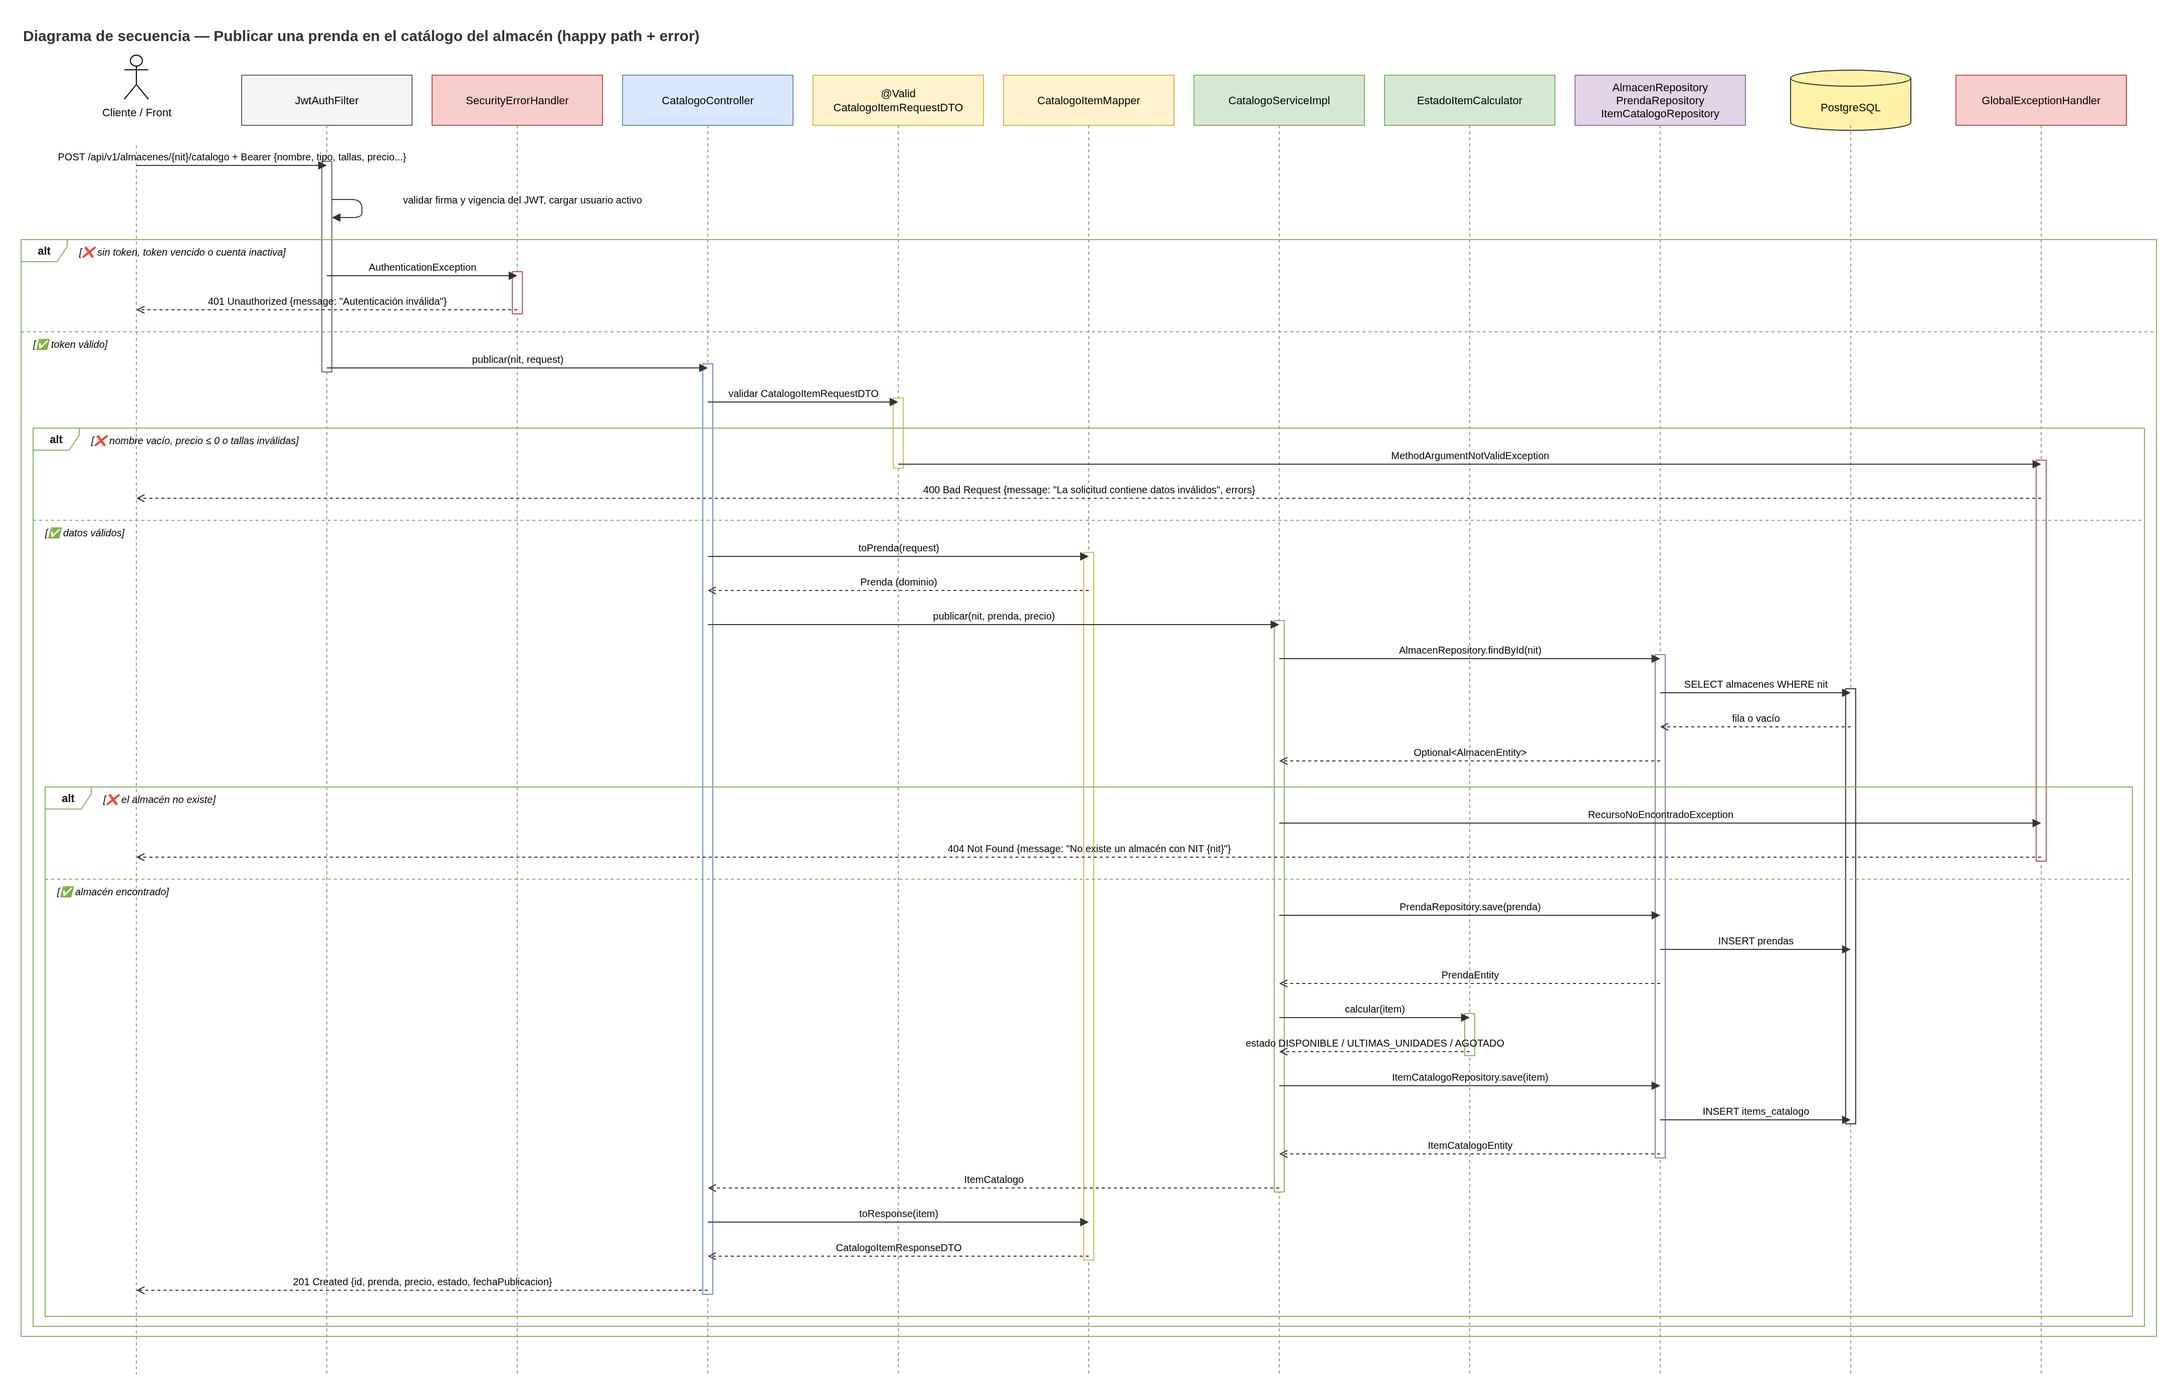
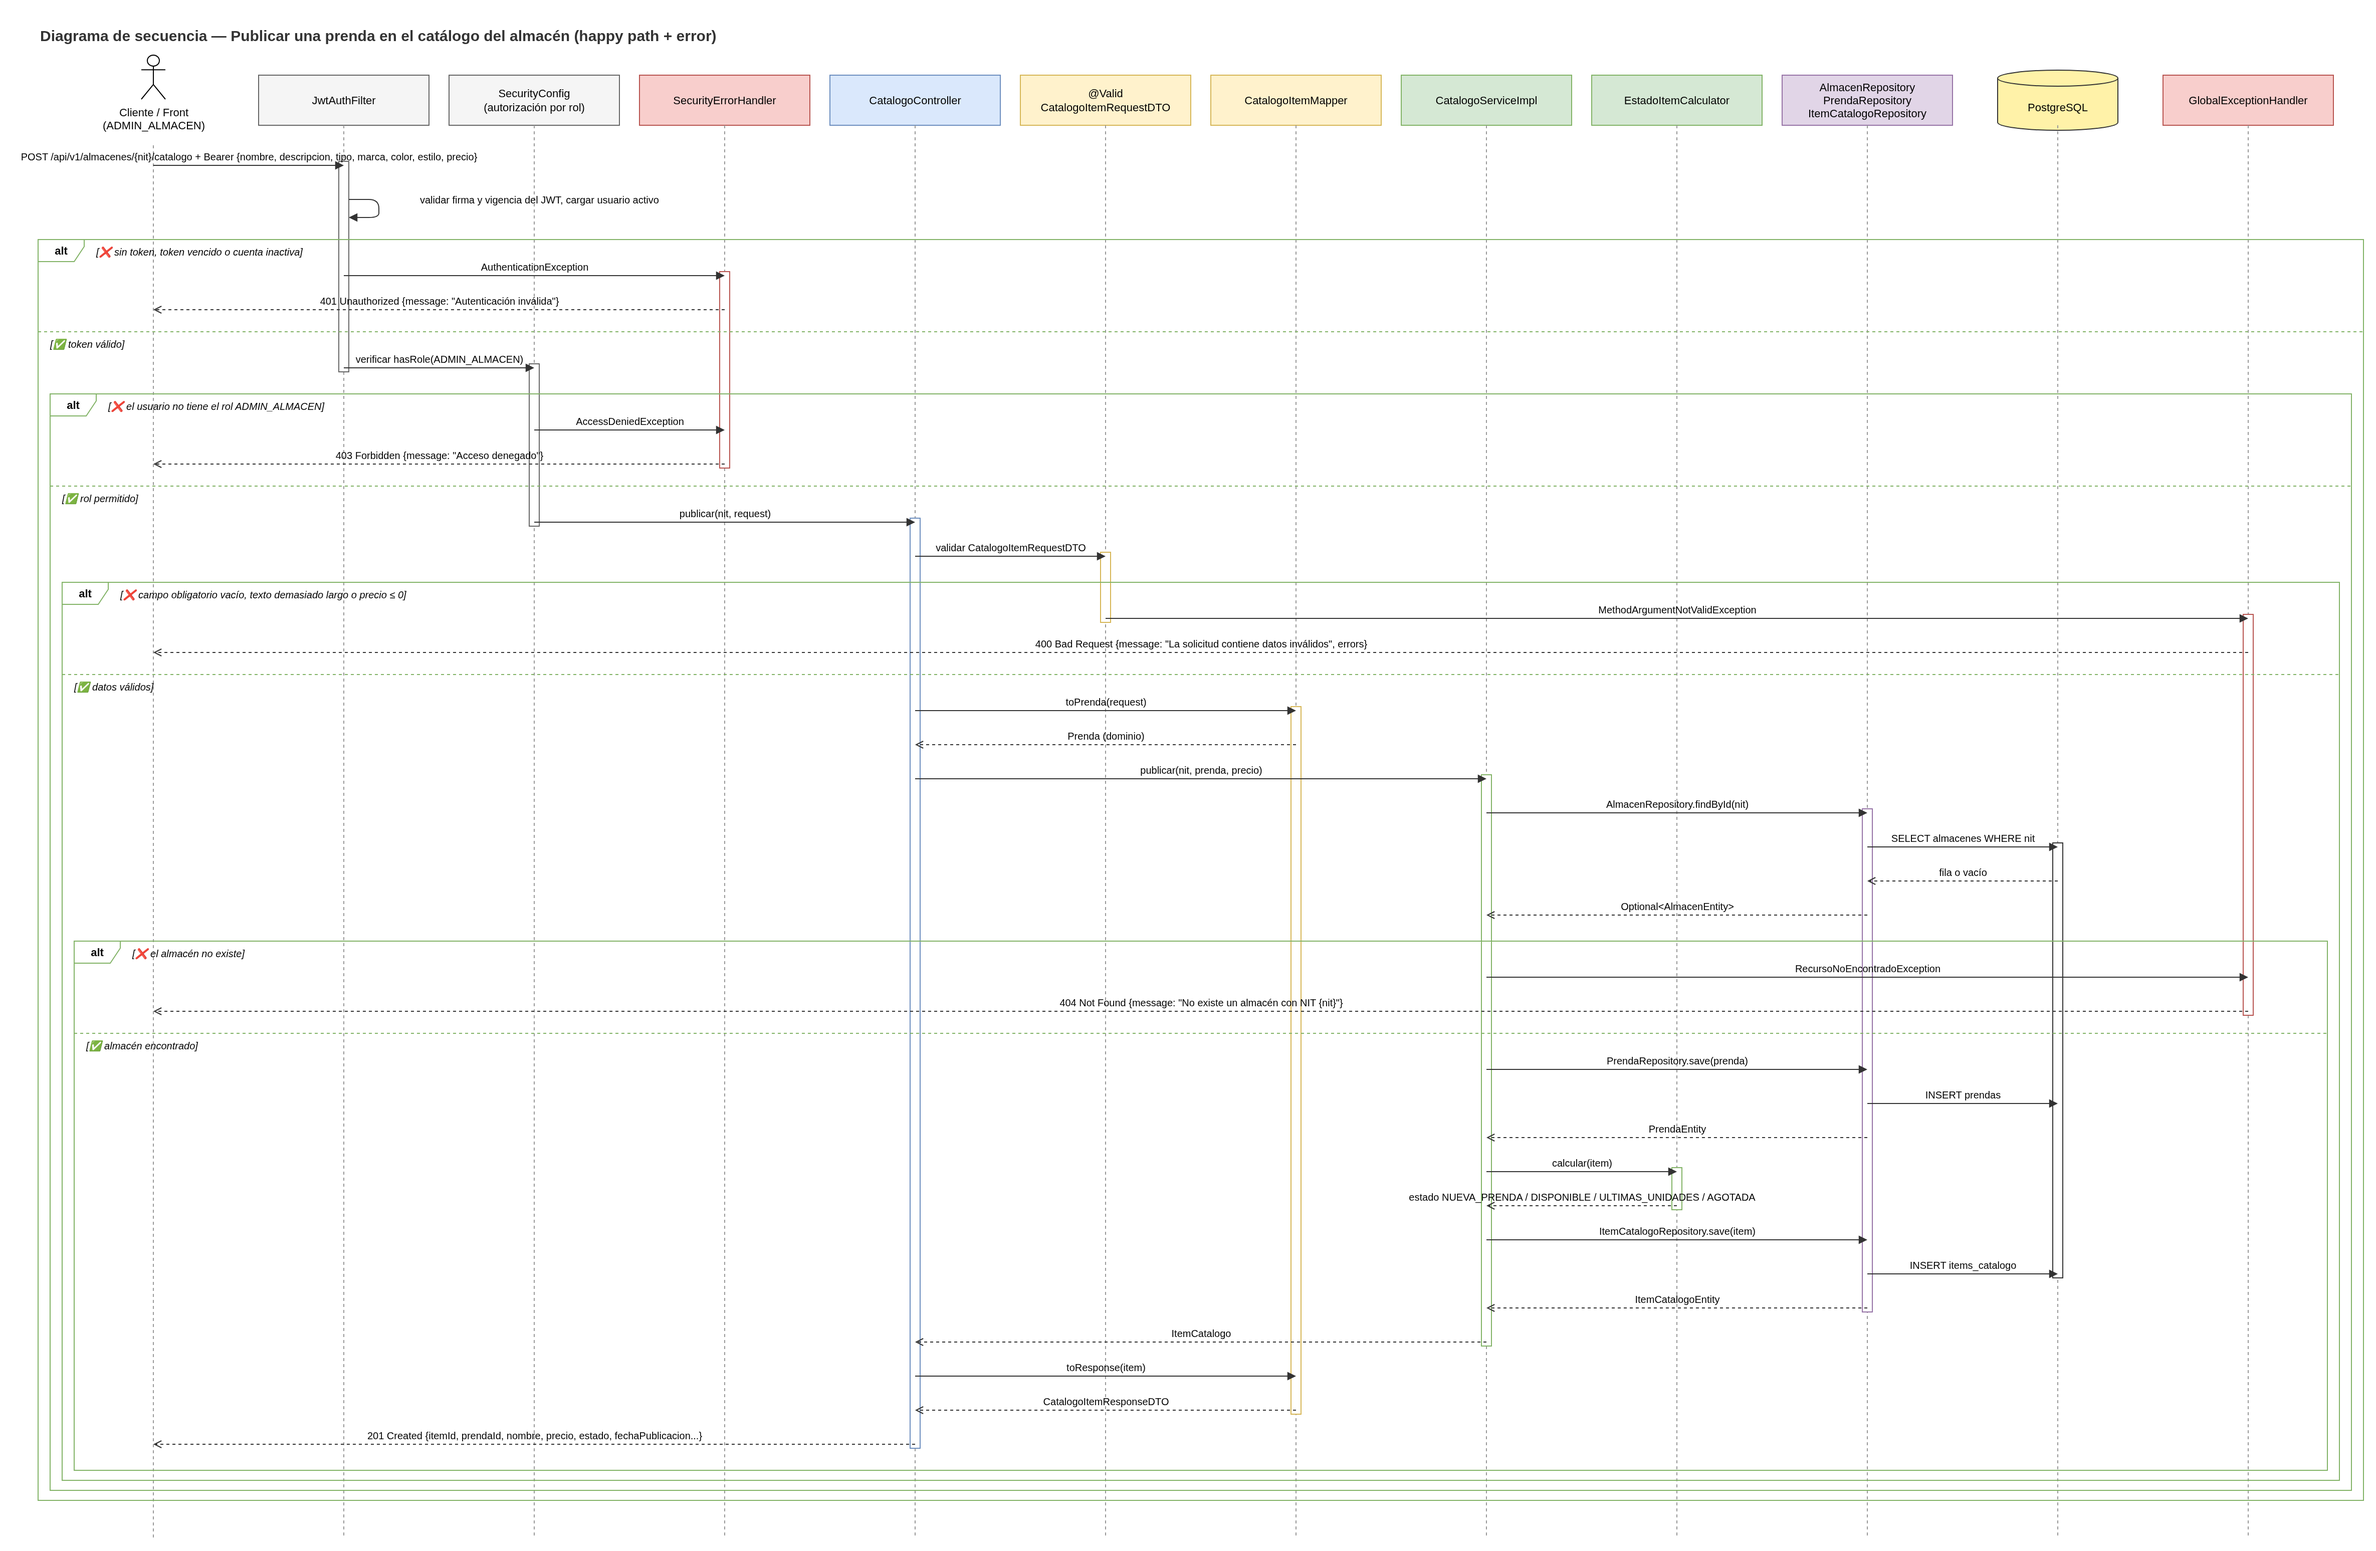
docs: update roles, known limitations and publish sequence for catalog authorization

diff --git a/style-radar/docs/arquitectura/funcionalidades-expuestas-parte-a.md b/style-radar/docs/arquitectura/funcionalidades-expuestas-parte-a.md
@@ -15,7 +15,6 @@ En las tablas de response, la columna *Restricciones* muestra los valores posibl
 Los roles posibles son:
 
 - **Público:** no requiere token.
-- **Autenticado (cualquier rol):** exige un JWT válido, sin importar el rol.
 - **Un rol específico:** el resto de endpoints exige el rol indicado. Sin token la respuesta es `401` y con otro rol es `403`.
 
 Las fechas usan el formato ISO-8601 en UTC y los precios están en pesos colombianos (COP).
@@ -42,8 +41,8 @@ Las fechas usan el formato ISO-8601 en UTC y los precios están en pesos colombi
 | PUT | `/api/v1/usuarios/me/preferencias-estilo` | COMPRADOR | 200 | RF-03 |
 | PUT | `/api/v1/usuarios/me/tallas-habituales` | COMPRADOR | 200 | RF-04 |
 | GET | `/api/v1/usuarios/{id}` | ADMIN_STYLERADAR | 200 | RF-66 |
-| GET | `/api/v1/usuarios/me/feed` | Autenticado (cualquier rol) | 200 | RF-05 |
-| GET | `/api/v1/usuarios/me/recomendaciones` | Autenticado (cualquier rol) | 200 | RF-06 |
+| GET | `/api/v1/usuarios/me/feed` | COMPRADOR | 200 | RF-05 |
+| GET | `/api/v1/usuarios/me/recomendaciones` | COMPRADOR | 200 | RF-06 |
 | GET | `/api/v1/catalogo/buscar` | Público (sin token) | 200 | RF-07 a RF-16, RF-54, RF-57 |
 | GET | `/api/v1/prendas` | Público (sin token) | 200 | RF-07 |
 | GET | `/api/v1/almacenes` | Público (sin token) | 200 | RF-17, RF-18 |
@@ -51,12 +50,12 @@ Las fechas usan el formato ISO-8601 en UTC y los precios están en pesos colombi
 | GET | `/api/v1/almacenes/{nit}/catalogo/novedades` | Público (sin token) | 200 | RF-20 |
 | GET | `/api/v1/almacenes/{nit}/distancia` | Público (sin token) | 200 | RF-21 |
 | GET | `/api/v1/almacenes/{nit}/catalogo` | Público (sin token) | 200 | RF-22, RF-60 |
-| POST | `/api/v1/almacenes/{nit}/catalogo` | Autenticado (cualquier rol) | 201 | RF-50, RF-53, RF-54 |
-| PUT | `/api/v1/almacenes/{nit}/catalogo/{itemId}` | Autenticado (cualquier rol) | 200 | RF-53, RF-55 |
-| DELETE | `/api/v1/almacenes/{nit}/catalogo/{itemId}` | Autenticado (cualquier rol) | 204 | RF-58 |
-| POST | `/api/v1/almacenes/{nit}/catalogo/{itemId}/imagenes` | Autenticado (cualquier rol) | 201 | RF-51 |
-| PUT | `/api/v1/almacenes/{nit}/catalogo/{itemId}/tallas` | Autenticado (cualquier rol) | 200 | RF-52 |
-| PATCH | `/api/v1/almacenes/{nit}/catalogo/{itemId}/inventario/{talla}` | Autenticado (cualquier rol) | 200 | RF-56, RF-57, RF-59 |
+| POST | `/api/v1/almacenes/{nit}/catalogo` | ADMIN_ALMACEN | 201 | RF-50, RF-53, RF-54 |
+| PUT | `/api/v1/almacenes/{nit}/catalogo/{itemId}` | ADMIN_ALMACEN | 200 | RF-53, RF-55 |
+| DELETE | `/api/v1/almacenes/{nit}/catalogo/{itemId}` | ADMIN_ALMACEN | 204 | RF-58 |
+| POST | `/api/v1/almacenes/{nit}/catalogo/{itemId}/imagenes` | ADMIN_ALMACEN | 201 | RF-51 |
+| PUT | `/api/v1/almacenes/{nit}/catalogo/{itemId}/tallas` | ADMIN_ALMACEN | 200 | RF-52 |
+| PATCH | `/api/v1/almacenes/{nit}/catalogo/{itemId}/inventario/{talla}` | ADMIN_ALMACEN | 200 | RF-56, RF-57, RF-59 |
 | GET | `/api/v1/admin/catalogo/moderacion` | ADMIN_STYLERADAR | 200 | RF-61 |
 | PATCH | `/api/v1/admin/catalogo/{itemId}/moderacion` | ADMIN_STYLERADAR | 200 | RF-61 |
 | POST | `/api/v1/admin/catalogo/{itemId}/moderacion/solicitar-revision` | ADMIN_STYLERADAR | 200 | RF-61 |
@@ -407,7 +406,7 @@ Response: `UsuarioResponseDTO`.
 
 ### `GET /api/v1/usuarios/me/feed`
 
-**Rol:** Autenticado (cualquier rol) · **Respuesta exitosa:** 200 OK · **RF:** RF-05
+**Rol:** COMPRADOR · **Respuesta exitosa:** 200 OK · **RF:** RF-05
 
 Obtener mi feed personalizado.
 
@@ -483,7 +482,7 @@ Objeto anidado `CatalogoItemResponseDTO`:
 
 ### `GET /api/v1/usuarios/me/recomendaciones`
 
-**Rol:** Autenticado (cualquier rol) · **Respuesta exitosa:** 200 OK · **RF:** RF-06
+**Rol:** COMPRADOR · **Respuesta exitosa:** 200 OK · **RF:** RF-06
 
 Obtener mis recomendaciones de prendas.
 
@@ -969,7 +968,7 @@ Response: lista de `CatalogoItemResponseDTO`.
 
 ### `POST /api/v1/almacenes/{nit}/catalogo`
 
-**Rol:** Autenticado (cualquier rol) · **Respuesta exitosa:** 201 Created · **RF:** RF-50, RF-53, RF-54
+**Rol:** ADMIN_ALMACEN · **Respuesta exitosa:** 201 Created · **RF:** RF-50, RF-53, RF-54
 
 Publicar prenda.
 
@@ -1046,7 +1045,7 @@ Response: `CatalogoItemResponseDTO`.
 
 ### `PUT /api/v1/almacenes/{nit}/catalogo/{itemId}`
 
-**Rol:** Autenticado (cualquier rol) · **Respuesta exitosa:** 200 OK · **RF:** RF-53, RF-55
+**Rol:** ADMIN_ALMACEN · **Respuesta exitosa:** 200 OK · **RF:** RF-53, RF-55
 
 Editar prenda del catálogo.
 
@@ -1124,7 +1123,7 @@ Response: `CatalogoItemResponseDTO`.
 
 ### `DELETE /api/v1/almacenes/{nit}/catalogo/{itemId}`
 
-**Rol:** Autenticado (cualquier rol) · **Respuesta exitosa:** 204 No Content · **RF:** RF-58
+**Rol:** ADMIN_ALMACEN · **Respuesta exitosa:** 204 No Content · **RF:** RF-58
 
 Retirar prenda.
 
@@ -1140,7 +1139,7 @@ Response: sin cuerpo.
 
 ### `POST /api/v1/almacenes/{nit}/catalogo/{itemId}/imagenes`
 
-**Rol:** Autenticado (cualquier rol) · **Respuesta exitosa:** 201 Created · **RF:** RF-51
+**Rol:** ADMIN_ALMACEN · **Respuesta exitosa:** 201 Created · **RF:** RF-51
 
 Registrar fotografía.
 
@@ -1176,7 +1175,7 @@ Response: `ImagenCatalogoResponseDTO`.
 
 ### `PUT /api/v1/almacenes/{nit}/catalogo/{itemId}/tallas`
 
-**Rol:** Autenticado (cualquier rol) · **Respuesta exitosa:** 200 OK · **RF:** RF-52
+**Rol:** ADMIN_ALMACEN · **Respuesta exitosa:** 200 OK · **RF:** RF-52
 
 Registrar tallas.
 
@@ -1244,7 +1243,7 @@ Response: `CatalogoItemResponseDTO`.
 
 ### `PATCH /api/v1/almacenes/{nit}/catalogo/{itemId}/inventario/{talla}`
 
-**Rol:** Autenticado (cualquier rol) · **Respuesta exitosa:** 200 OK · **RF:** RF-56, RF-57, RF-59
+**Rol:** ADMIN_ALMACEN · **Respuesta exitosa:** 200 OK · **RF:** RF-56, RF-57, RF-59
 
 Actualizar disponibilidad.
 

diff --git a/README.md b/README.md
@@ -394,7 +394,8 @@ El sistema maneja cuatro roles: `COMPRADOR`, `ADMIN_ALMACEN`, `REPRESENTANTE_FUN
 | `GET /api/v1/fundaciones` (cercanas), `/api/v1/usuarios/me/donaciones` | GET, POST | `COMPRADOR` |
 | `/api/v1/fundaciones/mi-fundacion/solicitudes/**` (consultar, decidir, recepción) | GET, PATCH | `REPRESENTANTE_FUNDACION` |
 | `PATCH /api/v1/donaciones/{id}/recogida` | PATCH | `COMPRADOR` (donante) o `REPRESENTANTE_FUNDACION` (solo participantes) |
-| Resto de endpoints (alertas, notificaciones, feed, recomendaciones y gestión del catálogo e inventario) | Todos | Cualquier usuario autenticado con JWT. En las rutas `/me` el recurso pertenece siempre al usuario del token |
+| `POST`, `PUT`, `PATCH` y `DELETE` en `/api/v1/almacenes/{nit}/catalogo/**` (publicar, editar, retirar, tallas, inventario e imágenes) | POST, PUT, PATCH, DELETE | `ADMIN_ALMACEN` |
+| `/api/v1/usuarios/me/alertas/**`, `/api/v1/usuarios/me/notificaciones`, `/api/v1/usuarios/me/feed`, `/api/v1/usuarios/me/recomendaciones` | GET, POST, PATCH | `COMPRADOR` |
 
 Las peticiones sin token reciben `401` y las que no tienen el rol requerido reciben `403`. Cada endpoint de usuarios, segunda mano, playlists, fundaciones, donaciones, probador y chat declara `@PreAuthorize` en su interfaz `controller/docs/*Api`; en las rutas `/me` el usuario sale siempre del JWT, nunca de la URL. CORS solo admite los orígenes de `CORS_ALLOWED_ORIGINS`. Al registrar una fundación, su representante recibe el rol `REPRESENTANTE_FUNDACION`.
 
@@ -580,7 +581,7 @@ Swagger en Azure:
 
 | Limitación | Impacto | Cómo se resolvería |
 |---|---|---|
-| La gestión del catálogo pide iniciar sesión, pero no comprueba que el usuario administre ese almacén. | Un usuario con sesión podría modificar el catálogo de otro almacén. | Exigir el rol `ADMIN_ALMACEN` y su vínculo con el almacén, como ya se hace en las suscripciones. |
+| La gestión del catálogo exige el rol `ADMIN_ALMACEN`, pero no comprueba que el usuario administre ese almacén en particular. | Un administrador de almacén podría modificar el catálogo de otro almacén. | Verificar su vínculo con el almacén, como ya se hace en las suscripciones. |
 | Las suscripciones se registran sin pago, porque PSE no está integrado. | Los planes no tienen cobro real. | Integrar la pasarela de pagos por medio de un adaptador, como en el probador virtual. |
 | El chat no funciona en tiempo real. | Los mensajes nuevos se ven al consultar la conversación. | Enviar los mensajes con WebSockets. |
 | Una sesión iniciada no se puede cerrar antes de que venza su token. | El token sigue siendo válido hasta su vencimiento, salvo que la cuenta se inactive o se bloquee. | Registrar los tokens revocados o usar tokens de corta duración. |

diff --git a/style-radar/docs/arquitectura/diagramas-secuencia.md b/style-radar/docs/arquitectura/diagramas-secuencia.md
@@ -53,13 +53,13 @@ Todos los diagramas usan el mismo código de colores:
 
 ## Publicar una prenda en el catálogo
 
-**RF-50 · Publicar prenda en el catálogo** (incluye RF-53 y RF-54) · `POST /api/v1/almacenes/{nit}/catalogo` · Usuario autenticado
+**RF-50 · Publicar prenda en el catálogo** (incluye RF-53 y RF-54) · `POST /api/v1/almacenes/{nit}/catalogo` · `ADMIN_ALMACEN`
 
 ![Secuencia de publicación de prenda](../uml/secuencia/SecuenciaPublicarPrenda.png)
 
 **Camino feliz:**
 
-1. `JwtAuthFilter` valida la firma y la vigencia del token y carga el usuario activo.
+1. `JwtAuthFilter` valida la firma y la vigencia del token y carga el usuario activo, y `SecurityConfig` exige el rol `ADMIN_ALMACEN`.
 2. `CatalogoController` valida el `CatalogoItemRequestDTO` con `@Valid`.
 3. `CatalogoItemMapper` convierte el DTO en el objeto de dominio `Prenda`.
 4. `CatalogoServiceImpl` busca el almacén por NIT.
@@ -71,6 +71,7 @@ Todos los diagramas usan el mismo código de colores:
 **Rutas de error:**
 
 - **Sin autenticación:** sin token, con token vencido o con una cuenta inactiva, `SecurityErrorHandler` responde `401`.
+- **Rol incorrecto:** si el usuario no tiene el rol `ADMIN_ALMACEN`, la respuesta es `403 Forbidden` con "Acceso denegado".
 - **Datos inválidos:** si falta un campo obligatorio, un texto supera su longitud máxima o el precio no es mayor que cero, la respuesta es `400` con el detalle de cada campo.
 - **Almacén inexistente:** si no hay un almacén con ese NIT, el servicio lanza `RecursoNoEncontradoException` y la API responde `404`.
 

diff --git a/style-radar/docs/arquitectura/diagramas-despliegue-seguridad.md b/style-radar/docs/arquitectura/diagramas-despliegue-seguridad.md
@@ -164,7 +164,9 @@ La autenticación es sin estado. Cada petición protegida envía el encabezado `
 | `POST /api/v1/segunda-mano`, `POST /api/v1/playlists`, `/api/v1/playlists/{id}/like`, `/guardar`, `/api/v1/segunda-mano/{id}/conversaciones`, `/api/v1/conversaciones/**`, `GET /api/v1/fundaciones` | GET, POST | `COMPRADOR` |
 | `/api/v1/fundaciones/mi-fundacion/solicitudes/**` | GET, PATCH | `REPRESENTANTE_FUNDACION` |
 | `PATCH /api/v1/donaciones/{id}/recogida` | PATCH | `COMPRADOR` donante o `REPRESENTANTE_FUNDACION` de la fundación |
-| Consultas de segunda mano y playlists, alertas, notificaciones, feed, recomendaciones y gestión del catálogo e inventario | Todos | Cualquier usuario autenticado |
+| `POST`, `PUT`, `PATCH` y `DELETE` en `/api/v1/almacenes/{nit}/catalogo/**` (publicar, editar, retirar, tallas, inventario e imágenes) | POST, PUT, PATCH, DELETE | `ADMIN_ALMACEN` |
+| `/api/v1/usuarios/me/alertas/**`, `/api/v1/usuarios/me/notificaciones`, `/api/v1/usuarios/me/feed`, `/api/v1/usuarios/me/recomendaciones` | GET, POST, PATCH | `COMPRADOR` |
+| Consultas de segunda mano y playlists | GET | Cualquier usuario autenticado |
 
 Una petición sin token, con token vencido o de una cuenta no activa recibe `401` con el mensaje "Autenticación inválida". Si el token es válido pero el rol no tiene permiso, la respuesta es `403` con "Acceso denegado". Las pruebas de estos tres escenarios contra PROD están en [`docs/evidencias/seguridad-prod.png`](../evidencias/seguridad-prod.png).
 
